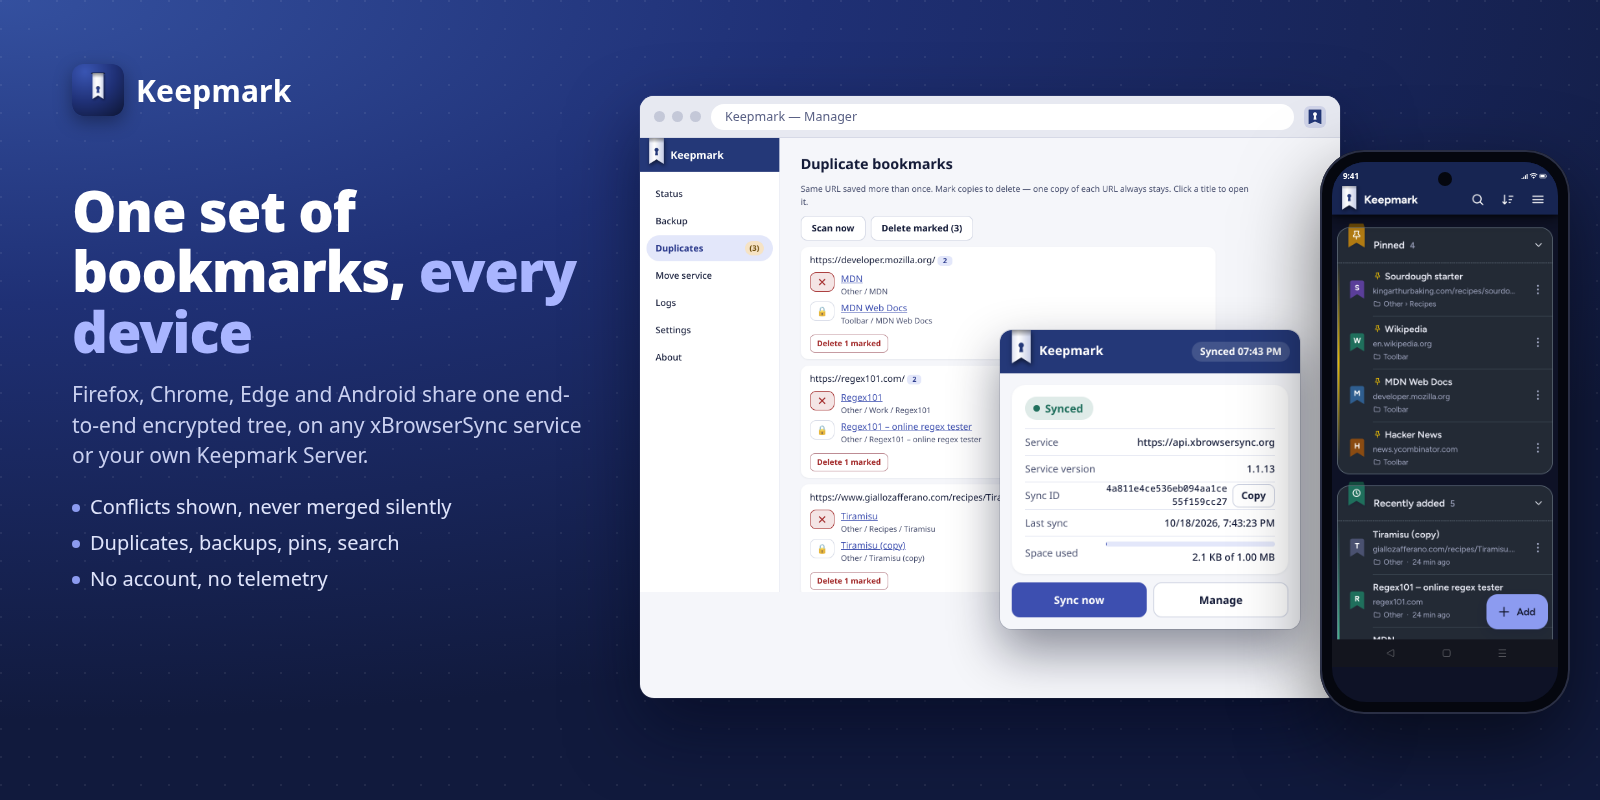
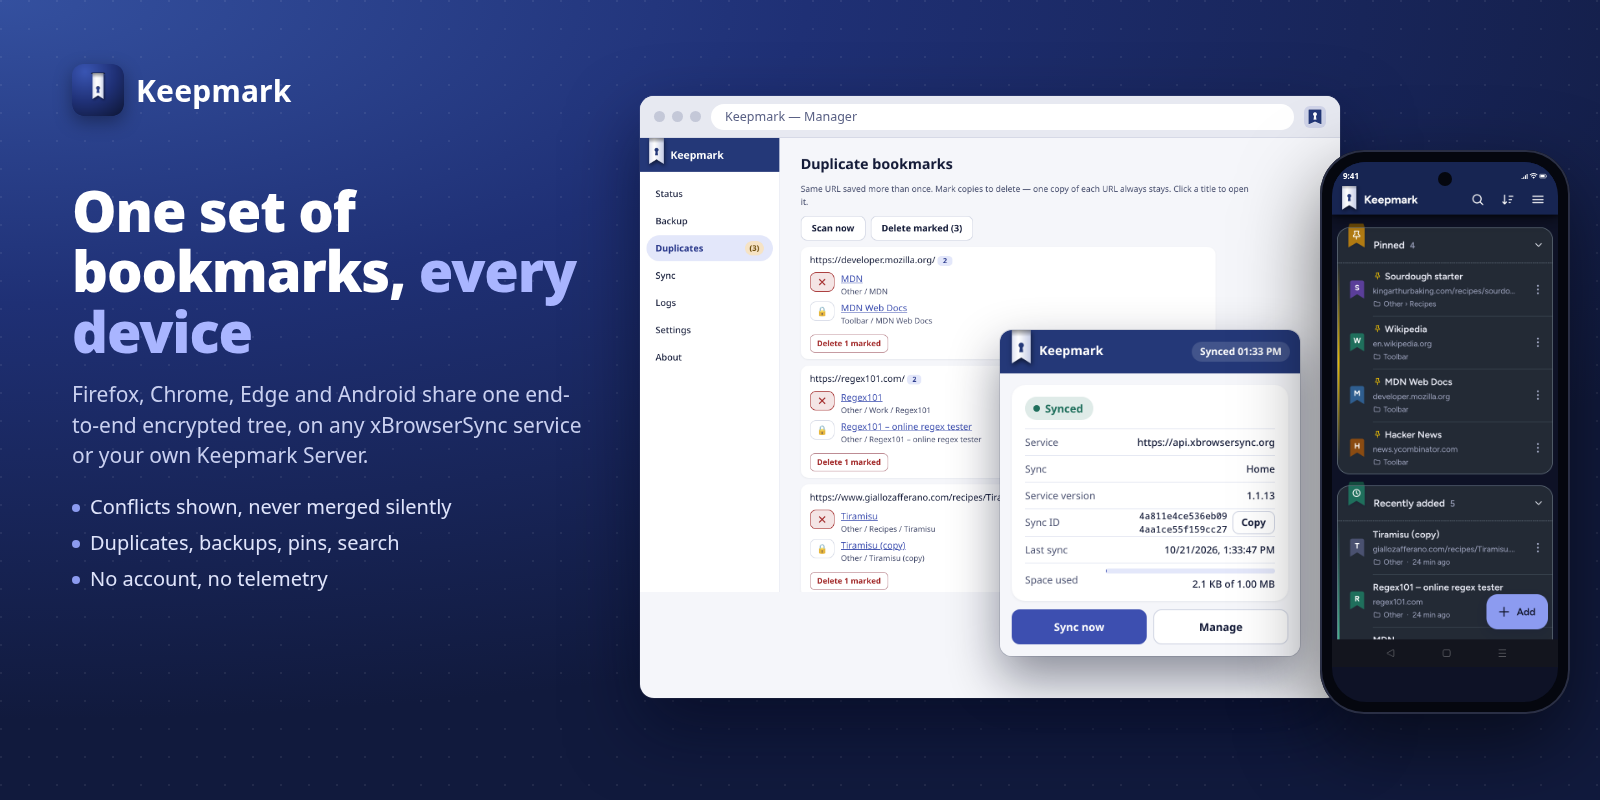
docs: multi-sync README/SPEC and the new tour; popup ID wrap and badge

Changed region(s): [[0.625, 0.5625, 0.8125, 0.875], [0.4062, 0.3438, 0.4375, 0.375]]

diff --git a/src/manager.html b/src/manager.html
@@ -199,10 +199,10 @@
           cannot be deleted from here (Unlink only removes this device; the sync on the server stays).</p>
 
         <div id="m-protection" hidden>
-          <h3 data-i18n="manager.switchPw.title">Sync-change password</h3>
+          <h3><span data-i18n="manager.switchPw.title">Sync-change password</span>
+            <span id="m-link-state" class="tag"></span></h3>
           <p class="hint" data-i18n="manager.switchPw.hint">Optional: require a short password (a PIN is fine) to activate or add syncs. Without
             it the switch is one click and the saved keys are stored unencrypted in this browser.</p>
-          <p><strong data-i18n="manager.switchPw.title">Sync-change password</strong>: <span id="m-link-state">…</span></p>
           <div id="m-link-lock-current" hidden>
             <label><span data-i18n="manager.switchPw.current">Current sync-change password</span>
               <input id="m-link-lock-current-pw" type="password" autocomplete="off" /></label>

diff --git a/src/manager/manager.ts b/src/manager/manager.ts
@@ -1940,7 +1940,9 @@ async function removeSavedRow(sync: SavedSync, anchorId: string): Promise<void> 
 function refreshSwitchLockUi(): void {
   const rows = syncsView.syncs.length;
   const dormant = Math.max(rows - (syncsView.active ? 1 : 0), 0);
-  $('m-link-state').textContent = switchLockSet ? t('manager.switchPw.isSet') : t('manager.switchPw.notSet');
+  const state = $('m-link-state');
+  state.textContent = switchLockSet ? t('manager.switchPw.isSet') : t('manager.switchPw.notSet');
+  state.classList.toggle('ok', switchLockSet);
   ($('m-protection') as HTMLElement).hidden = !switchLockSet && rows < 2;
   ($('m-link-lock-current') as HTMLElement).hidden = !switchLockSet;
   ($('m-btn-link-lock-set') as HTMLElement).hidden = switchLockSet;

diff --git a/src/popup/popup.css b/src/popup/popup.css
@@ -529,7 +529,10 @@ dd:last-of-type { align-items: flex-end; }
 }
 
 .id-row { gap: 6px; }
-.id-row code { min-width: 0; }
+/* The 32-character sync ID is a bearer token: show it whole, split into two
+   balanced 16-character lines next to Copy, so it never wraps mid-pair and
+   never leaves a lone character on its own line. */
+.id-row code { min-width: 0; max-width: 16ch; }
 
 .meter {
   width: 100%;

diff --git a/src/manager/manager.css b/src/manager/manager.css
@@ -178,6 +178,9 @@ h3 {
   font-weight: 700;
 }
 
+/* Section heading that carries a state badge (sync-change password: set/not set). */
+#m-protection h3 { display: flex; align-items: center; gap: 8px; }
+
 p { margin: 6px 0; }
 
 label {

diff --git a/README.md b/README.md
@@ -6,7 +6,8 @@
 
 <p align="center">
   <b>Your bookmarks in every browser, synced and end-to-end encrypted.</b><br />
-  An independent extension compatible with xBrowserSync.
+  Keep several syncs side by side and switch in a click. An independent
+  extension compatible with xBrowserSync.
 </p>
 
 <p align="center">
@@ -32,8 +33,33 @@ It works with **any xBrowserSync service** (the official one, a community
 host or your own) and with the official xBrowserSync apps. A sync created in
 Keepmark opens there, and the other way round. Nothing to migrate.
 
+## Several syncs, one active
+
+A browser is not limited to one sync. Keep **work and home apart**, keep a
+shared **family** sync with its own password, or try a different server
+without losing the one you use: every sync is saved with its own service,
+password and bookmarks, exactly one is active, and switching is a click.
+
+<img src="docs/img/syncs.png" alt="Keepmark manager with three saved syncs (Home active, Work and Family inactive) and the popup showing the same list" />
+
+- **Add a sync** from the manager: create it on the target service, or open
+  one you already use elsewhere. A new sync starts from the bookmarks in this
+  browser; an existing one opens with a reviewed choice (keep the server copy,
+  keep this copy, or merge). The sync you were using stays in the list.
+- **Switch** from the popup or the manager. The sync you leave is saved
+  first, the new one is verified on its server copy and becomes active. An
+  optional short **sync-change password** (a PIN is fine) can gate adding and
+  switching, without ever asking again for the syncs' own long passwords.
+- **Stay in control of the list**: rename a sync, unlink it (the server copy
+  stays untouched), link it again later with its sync ID and password, or
+  delete it from the server when the service speaks API v1.2.
+- **One phone, any sync**: the connection QR always links the Android app to
+  the sync that is active, so moving the phone between syncs is a scan.
+
 ## Highlights
 
+- **Several syncs, side by side.** Work and home, a shared family sync, a
+  second server: saved together, one active at a time, switched in a click.
 - **Private by design.** PBKDF2-SHA256 and AES-GCM in the browser. No
   telemetry, HTTPS-only services, and no access to the pages you visit.
 - **Never lose a bookmark silently.** Conflicts are never resolved behind
@@ -59,8 +85,8 @@ Keepmark opens there, and the other way round. Nothing to migrate.
 | **Safety backups** | Automatic encrypted snapshot before every destructive step (newest 5 kept) |
 | **Backup** | Encrypted export and import, compatible with Keepmark for Android; the verified review is the only confirmation |
 | **Duplicates** | Find links saved more than once, delete one by one or in bulk; the last copy is always kept |
-| **Syncs** | Several syncs saved side by side, one active at a time: switch with the optional sync-change password, rename, unlink (link it again later with its sync ID and password), delete from the server |
-| **Add a sync** | Move your bookmarks to another service, into a new or existing sync, with one reviewed confirmation |
+| **Syncs** | Several syncs saved side by side, one active at a time: switch from the popup or the manager, optionally behind a sync-change password; rename, unlink (link it again later with its sync ID and password), delete from the server |
+| **Add a sync** | Create a new sync on another service or open one you already use, with one reviewed confirmation; the sync you were using stays saved |
 | **Account** | Change password, activity log, clear error messages at every step, undo for quick actions |
 | **Languages** | English, Italiano, Français, Español, Deutsch, 日本語, Português (Brasil), Русский, 简体中文; follows the browser, override in Settings |
 
@@ -89,18 +115,22 @@ wizard the same QR button sits before the manual target credentials.
 ## Screenshots
 
 <p align="center">
-  <img src="docs/img/screens/01-sync.png" width="49%" alt="Popup and status" />
-  <img src="docs/img/screens/02-conflict.png" width="49%" alt="Conflict preview" />
+  <img src="docs/img/screens/01-sync.png" width="49%" alt="Popup and sync status" />
+  <img src="docs/img/screens/02-syncs.png" width="49%" alt="Several saved syncs: Home active, Work and Family inactive" />
 </p>
 
 <p align="center">
-  <img src="docs/img/screens/03-duplicates.png" width="49%" alt="Duplicate cleanup" />
-  <img src="docs/img/screens/04-dark.png" width="49%" alt="Dark theme" />
+  <img src="docs/img/screens/03-conflict.png" width="49%" alt="Conflict choice with merge preview" />
+  <img src="docs/img/screens/04-duplicates.png" width="49%" alt="Duplicate cleanup" />
 </p>
 
 <p align="center">
-  <img src="docs/img/screens/05-private.png" width="49%" alt="Connect a browser" />
-  <img src="docs/img/screens/06-phone.png" width="49%" alt="Connection QR for linking the phone" />
+  <img src="docs/img/screens/05-dark.png" width="49%" alt="Dark theme" />
+  <img src="docs/img/screens/06-private.png" width="49%" alt="Connect a browser: the password stays on the device" />
+</p>
+
+<p align="center">
+  <img src="docs/img/screens/07-phone.png" width="49%" alt="Connection QR for linking the phone" />
 </p>
 
 ## The Keepmark family

diff --git a/docs/SPEC.en.md b/docs/SPEC.en.md
@@ -30,6 +30,14 @@ xBrowserSync. It interoperates with the official xBrowserSync apps and services
 and with Keepmark Server (KeepmarkApi, extended contract v1.2). License GPL-3.0-only
 (`LICENSE.md`).
 
+Its defining capability is **multi-sync**: a browser keeps any number of saved
+syncs (work, home, family, a second server) side by side, each with its own
+service, derived key and bookmark copy, and exactly one of them active.
+Switching never asks again for the syncs' own long passwords: an optional short
+sync-change password gates adding and activating, and what is stored per row is
+the derived key, wrapped when that gate is set. Every other feature works the
+same whichever sync is active.
+
 Goals:
 
 - G1. Sync the user's full bookmark tree against any compatible service with
